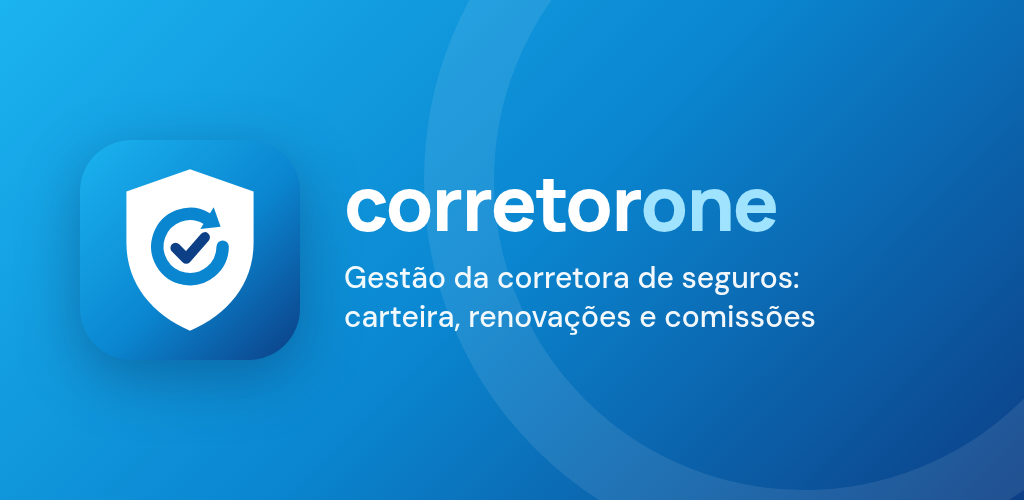
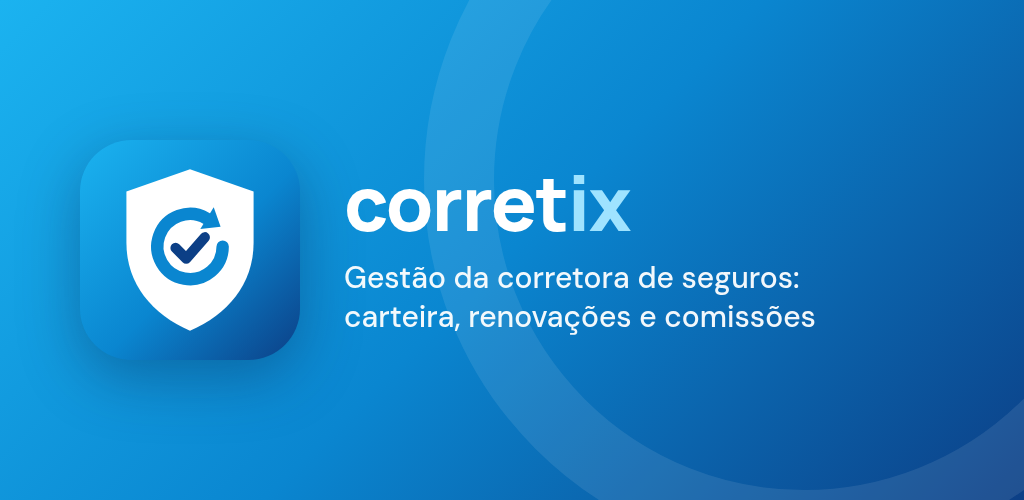
Novo nome: Corretix
- Marca "corretix" (com "ix" em celeste) no app, página inicial, páginas legais,
  plano, manifesto, artes das lojas e splash.
- App das lojas: br.com.corretix.app; Codemagic com grupo "corretix",
  CORRETIX_URL e keystore "corretix_keystore".

Claude-Session: https://claude.ai/code/session_01NA8xQYyXiutCBCBDXsNLyN

Changed region(s): [[0.5312, 0.36, 0.7812, 0.48]]

diff --git a/mobile/www/offline.html b/mobile/www/offline.html
@@ -3,7 +3,7 @@
 <head>
 <meta charset="utf-8">
 <meta name="viewport" content="width=device-width, initial-scale=1, viewport-fit=cover">
-<title>CorretorOne — sem conexão</title>
+<title>Corretix — sem conexão</title>
 <style>
   html,body{margin:0;height:100%;font-family:system-ui,-apple-system,"Segoe UI",Roboto,sans-serif}
   body{display:flex;align-items:center;justify-content:center;background:linear-gradient(160deg,#1bb3f0,#0a86d0 55%,#0c3f86);color:#fff;text-align:center;padding:24px;box-sizing:border-box}
@@ -17,7 +17,7 @@
   <div class="box">
     <svg width="88" height="88" viewBox="0 0 64 64" aria-hidden="true"><rect width="64" height="64" rx="15" fill="#fff" fill-opacity=".15"/><path d="M32 8.5 50.5 15v14.8c0 12.2-7.6 20.9-18.5 25.7C21.1 50.7 13.5 42 13.5 29.8V15Z" fill="#fff"/><path d="M41.5 31a9.5 9.5 0 1 1-4.75-8.23" fill="none" stroke="#0a86d0" stroke-width="3.6" stroke-linecap="round"/><path d="M40.9 25.2 35 25.9l3.9-6.3Z" fill="#0a86d0"/><path d="m27.8 31.4 3.1 3.1 5.4-6.2" fill="none" stroke="#0c3f86" stroke-width="3" stroke-linecap="round" stroke-linejoin="round"/></svg>
     <h1>Sem conexão</h1>
-    <p>O CorretorOne precisa de internet para mostrar a carteira atualizada. Verifique o Wi-Fi ou os dados móveis.</p>
+    <p>O Corretix precisa de internet para mostrar a carteira atualizada. Verifique o Wi-Fi ou os dados móveis.</p>
     <button onclick="history.length > 1 ? history.back() : location.reload()">Tentar de novo</button>
   </div>
 </body>

diff --git a/mobile/capacitor.config.ts b/mobile/capacitor.config.ts
@@ -2,13 +2,13 @@ import type { CapacitorConfig } from "@capacitor/cli";
 
 // Endereço publicado do app no Lovable (Publish). O aplicativo das lojas abre este endereço,
 // então toda atualização publicada no Lovable chega aos celulares sem novo envio às lojas.
-// Troque pelo seu domínio (ex.: https://app.corretorone.app.br) ou defina CORRETORONE_URL no Codemagic.
-const url = process.env.CORRETORONE_URL ?? "https://SEU-PROJETO.lovable.app";
+// Troque pelo seu domínio (ex.: https://app.corretix.com.br) ou defina CORRETIX_URL no Codemagic.
+const url = process.env.CORRETIX_URL ?? "https://SEU-PROJETO.lovable.app";
 
 const config: CapacitorConfig = {
   // Identificador único nas lojas: não pode mudar depois da primeira publicação.
-  appId: process.env.CORRETORONE_APP_ID ?? "br.app.corretorone",
-  appName: "CorretorOne",
+  appId: process.env.CORRETIX_APP_ID ?? "br.com.corretix.app",
+  appName: "Corretix",
   webDir: "www",
   server: {
     url,
@@ -23,7 +23,7 @@ const config: CapacitorConfig = {
     backgroundColor: "#f2f8fc",
     // O app web já trata as áreas do entalhe/barra (viewport-fit=cover + env(safe-area-inset-*)).
     contentInset: "never",
-    scheme: "CorretorOne",
+    scheme: "Corretix",
   },
   plugins: {
     SplashScreen: {

diff --git a/src/components/brand/logo.tsx b/src/components/brand/logo.tsx
@@ -1,4 +1,4 @@
-// Marca do CorretorOne: escudo (seguro) com a seta de renovação e o "ok" da apólice renovada.
+// Marca do Corretix: escudo (seguro) com a seta de renovação e o "ok" da apólice renovada.
 // A mesma arte está em branding/marca.svg (ícones do app e das lojas).
 import { useId } from "react";
 import { cn } from "@/lib/utils";
@@ -18,7 +18,7 @@ export function BrandMark({
       height={size}
       className={cn("shrink-0", className)}
       role="img"
-      aria-label="CorretorOne"
+      aria-label="Corretix"
     >
       <defs>
         <linearGradient id={`${id}-f`} x1="0" y1="0" x2="1" y2="1">
@@ -52,7 +52,7 @@ export function BrandMark({
   );
 }
 
-/** Nome "corretorone" com o "tt" em celeste (claro sobre fundo escuro). */
+/** Nome "corretix" com o "tt" em celeste (claro sobre fundo escuro). */
 export function Wordmark({
   onDark = false,
   className,
@@ -62,8 +62,8 @@ export function Wordmark({
 }) {
   return (
     <span className={cn("font-display font-bold tracking-tight", className)}>
-      corretor
-      <span className={onDark ? "text-celeste-bright" : "text-celeste"}>one</span>
+      corret
+      <span className={onDark ? "text-celeste-bright" : "text-celeste"}>ix</span>
     </span>
   );
 }

diff --git a/src/lib/plano.ts b/src/lib/plano.ts
@@ -1,7 +1,7 @@
-// Plano de assinatura do CorretorOne (vendido pelo site). Altere o valor aqui: ele aparece na
+// Plano de assinatura do Corretix (vendido pelo site). Altere o valor aqui: ele aparece na
 // página inicial, na tela de assinatura e é o valor cobrado pelo Mercado Pago em novas assinaturas.
 export const PLANO = {
-  nome: "CorretorOne Completo",
+  nome: "Corretix Completo",
   /** Valor mensal em reais. */
   valor: 39.9,
   testeDias: 14,

diff --git a/src/components/auth/auth-layout.tsx b/src/components/auth/auth-layout.tsx
@@ -39,7 +39,7 @@ export function AuthLayout({ children }: { children: ReactNode }) {
           </p>
         </div>
         <p className="relative text-sm opacity-70">
-          CorretorOne · seus dados isolados e protegidos por corretora
+          Corretix · seus dados isolados e protegidos por corretora
         </p>
       </div>
       <div className="flex items-center justify-center px-6 pb-16 pt-[calc(4rem+env(safe-area-inset-top))]">

diff --git a/src/lib/legal.ts b/src/lib/legal.ts
@@ -1,7 +1,7 @@
 // Dados de quem publica o app nas lojas. PREENCHA antes de enviar para a Google Play / App Store:
 // as páginas de privacidade, termos e exclusão de conta usam estes valores.
 export const LEGAL = {
-  produto: "CorretorOne",
+  produto: "Corretix",
   /** Razão social ou nome de quem vende o app (desenvolvedor). */
   responsavel: "[Nome ou razão social do desenvolvedor]",
   /** CPF ou CNPJ do responsável. */

diff --git a/src/routes/index.tsx b/src/routes/index.tsx
@@ -1,7 +1,7 @@
 import { createFileRoute } from "@tanstack/react-router";
 import { LandingPage } from "@/features/landing/landing-page";
 
-const titulo = "CorretorOne — Gestão para corretoras de seguros";
+const titulo = "Corretix — Gestão para corretoras de seguros";
 const descricao =
   "Clientes, apólices, renovações, parcelas e comissões da sua corretora num só lugar. Teste grátis.";
 

diff --git a/src/routes/excluir-conta.tsx b/src/routes/excluir-conta.tsx
@@ -4,7 +4,7 @@ import { LEGAL } from "@/lib/legal";
 import { pageHead } from "@/lib/seo";
 
 export const Route = createFileRoute("/excluir-conta")({
-  head: () => pageHead("Excluir conta", "Como excluir sua conta do CorretorOne e os seus dados."),
+  head: () => pageHead("Excluir conta", "Como excluir sua conta do Corretix e os seus dados."),
   component: ExcluirConta,
 });
 

diff --git a/src/routes/privacidade.tsx b/src/routes/privacidade.tsx
@@ -4,7 +4,7 @@ import { LEGAL } from "@/lib/legal";
 import { pageHead } from "@/lib/seo";
 
 export const Route = createFileRoute("/privacidade")({
-  head: () => pageHead("Política de privacidade", "Como o CorretorOne trata os dados pessoais."),
+  head: () => pageHead("Política de privacidade", "Como o Corretix trata os dados pessoais."),
   component: Privacidade,
 });
 

diff --git a/src/features/assinatura/assinatura-section.tsx b/src/features/assinatura/assinatura-section.tsx
@@ -164,7 +164,7 @@ export function AssinaturaSection() {
 
       {nativo && a.status !== "isenta" && (
         <p className="text-sm text-muted-foreground">
-          A assinatura é gerenciada pelo site do CorretorOne, no navegador do computador.
+          A assinatura é gerenciada pelo site do Corretix, no navegador do computador.
         </p>
       )}
 

diff --git a/src/routes/termos.tsx b/src/routes/termos.tsx
@@ -4,7 +4,7 @@ import { LEGAL } from "@/lib/legal";
 import { pageHead } from "@/lib/seo";
 
 export const Route = createFileRoute("/termos")({
-  head: () => pageHead("Termos de uso", "Condições de uso do CorretorOne."),
+  head: () => pageHead("Termos de uso", "Condições de uso do Corretix."),
   component: Termos,
 });
 

diff --git a/mobile/www/index.html b/mobile/www/index.html
@@ -3,7 +3,7 @@
 <head>
 <meta charset="utf-8">
 <meta name="viewport" content="width=device-width, initial-scale=1, viewport-fit=cover">
-<title>CorretorOne</title>
+<title>Corretix</title>
 <meta http-equiv="refresh" content="0; url=offline.html">
 </head>
 <body></body>
